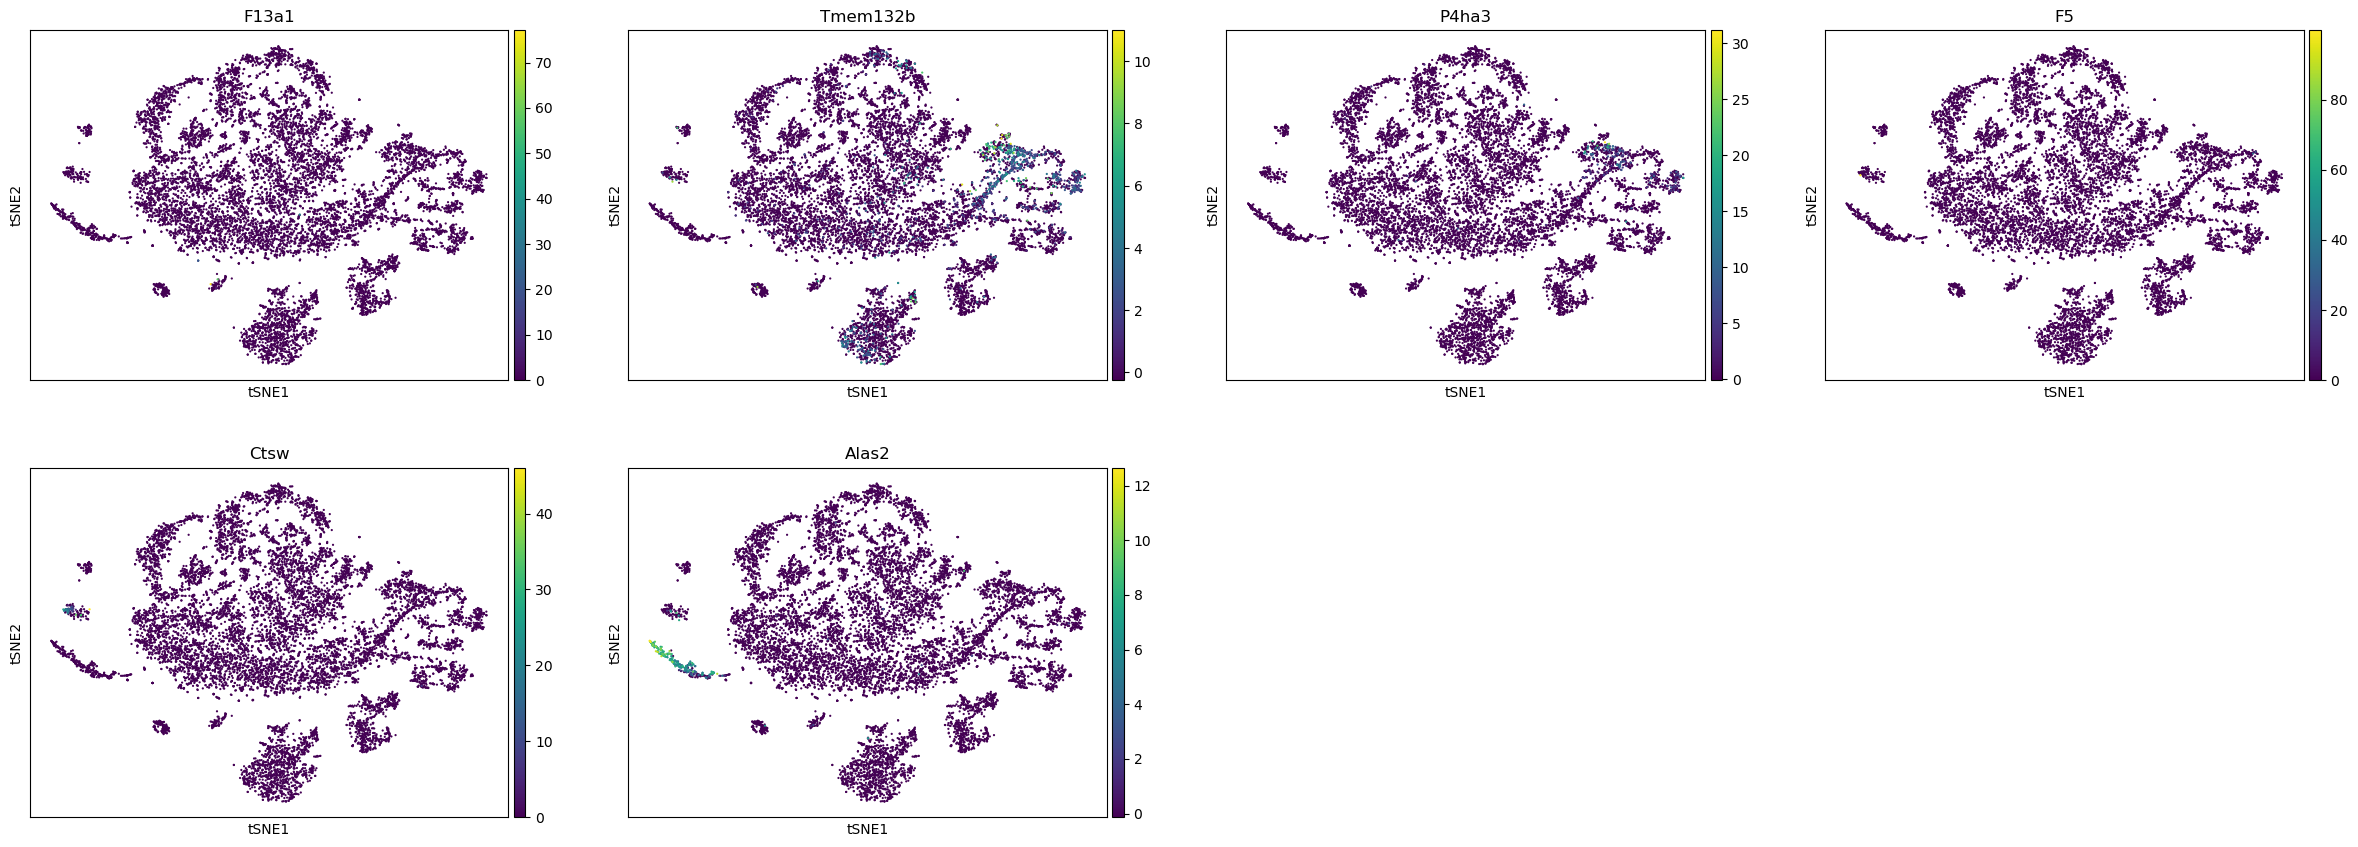
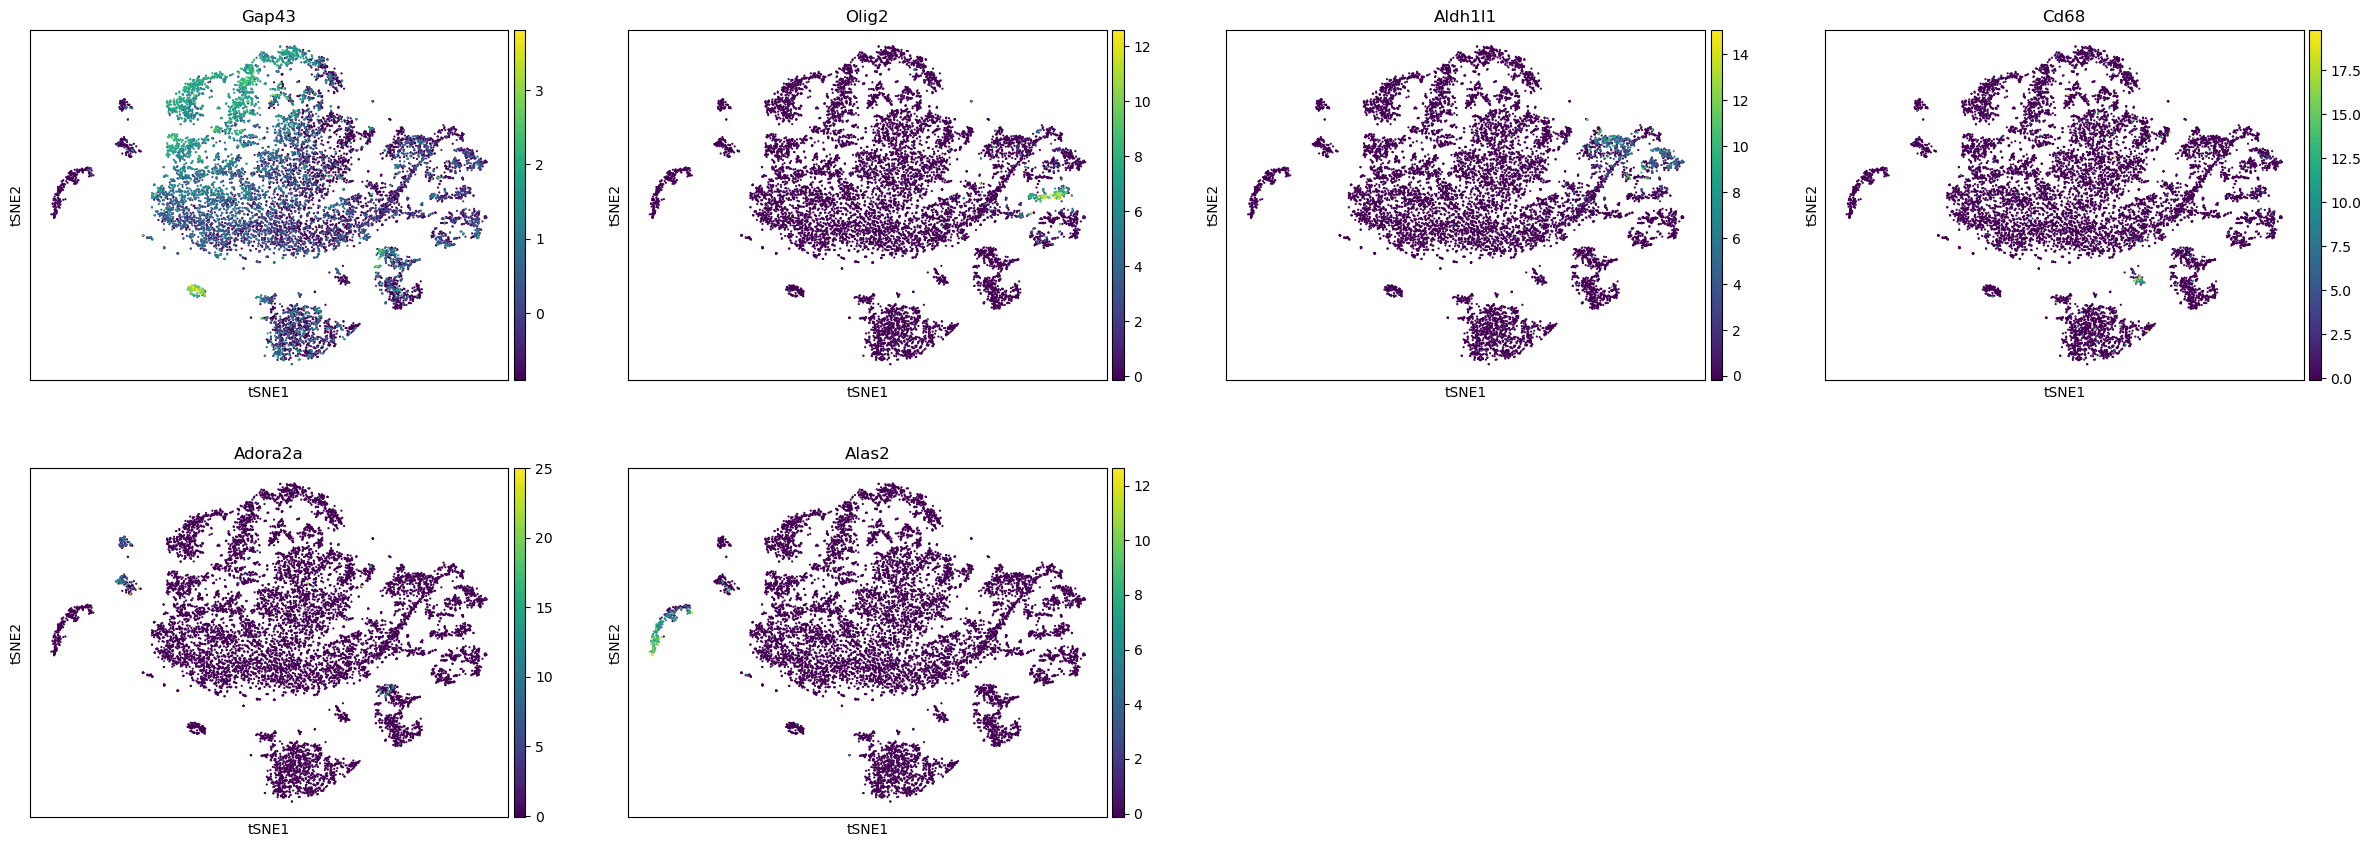
Complete Assignment and Figs

diff --git a/week11-homework/scRNA.py b/week11-homework/scRNA.py
@@ -1,37 +1,83 @@
 #usr/bin/env python
-
+import pandas as pd
 import scanpy as sc
+from matplotlib.pyplot import rc_context
 # Read 10x dataset
 adata = sc.read_10x_h5("neuron_10k_v3_filtered_feature_bc_matrix.h5")
 # Make variable names (in this case the genes) unique
 adata.var_names_make_unique()
 
 sc.tl.pca(adata)
-# sc.pl.pca(adata, title = 'PCA of prefiltered Data', save = 'prefilterPCA.png')
+sc.pl.pca(adata, title = 'PCA of prefiltered Data', save = 'prefilterPCA.png')
 
 sc.pp.recipe_zheng17(adata)
 sc.tl.pca(adata)
-# sc.pl.pca(adata, title = 'PCA of Filtered Data', save = 'filteredPCA.png')
+sc.pl.pca(adata, title = 'PCA of Filtered Data', save = 'filteredPCA.png')
 
 sc.pp.neighbors(adata)
-sc.tl.leiden(adata)
-for thing in adata.var.index:
-    print(thing)
+sc.tl.leiden(adata, key_added='clusters')
+# for thing in adata.var.index:
+#     print(thing)
 
-# sc.tl.tsne(adata)
-# sc.pl.tsne(adata, title = 'tSNE of Clusters', color = 'leiden', save = 'tSNE.png')
-#
-# sc.tl.umap(adata, maxiter = 1000)
-# sc.pl.umap(adata, title = 'UMAP of Clusters', color = 'leiden', save = 'UMAP.png')
-#
-# sc.tl.rank_genes_groups(adata, 'leiden', method='t-test')
-# sc.pl.rank_genes_groups(adata, save = 'ttest.png')
-#
-# sc.tl.rank_genes_groups(adata, 'leiden', method = 'logreg')
-# sc.pl.rank_genes_groups(adata, save = 'logreg.png')
+sc.tl.tsne(adata)
+sc.pl.tsne(adata, title = 'tSNE of Clusters', color = 'clusters', save = 'tSNE.png')
 
-marker_type = ['Microglia', 'Oligodendrocytes', 'Astrocytes', 'EC1', 'EC2', 'EC3']
-marker_genes = ['F13a1', 'Tmem132b', 'P4ha3', 'F5', 'Ctsw', 'Alas2']
+sc.tl.umap(adata, maxiter = 1000)
+sc.pl.umap(adata, title = 'UMAP of Clusters', color = 'clusters', save = 'UMAP.png')
+
+sc.tl.rank_genes_groups(adata, 'clusters', method='t-test')
+sc.pl.rank_genes_groups(adata, save = 'ttest.png')
+
+sc.tl.rank_genes_groups(adata, 'clusters', method = 'logreg')
+sc.pl.rank_genes_groups(adata, save = 'logreg.png')
+
+marker_type = ['Schwann Cells', 'Oligodendrocytes', 'Astrocytes', 'Microglia', 'GABAergic Neurons', 'EC type 3']
+marker_genes = ['Gap43', 'Olig2', 'Aldh1l1', 'Cd68', 'Adora2a', 'Alas2']
 
 sc.tl.tsne(adata)
 sc.pl.tsne(adata, color = marker_genes, save = 'markergenes.png')
+
+marker_genes_dict = {
+    'Schwann Cells': ['Gap43'],
+    'Oligodendrocytes': ['Olig2'],
+    'Astrocytes': ['Aldh1l1'],
+    'Microglia': ['Cd68'],
+    'GABAergic Neurons': ['Adora2a'],
+    'EC type 3': ['Alas2'],
+}
+
+cluster2annotation = {
+     '0': '0',
+     '1': '1',
+     '2': '2',
+     '3': '3',
+     '4': '4',
+     '5': 'Astrocytes',
+     '6': '6',
+     '7': '7',
+     '8': '8',
+     '9': '9',
+     '10': '10',
+     '11': '11',
+     '12': '12',
+     '13': '13',
+     '14': '14',
+     '15': '15',
+     '16': 'EC type 3',
+     '17': '17',
+     '18': '18',
+     '19': '19',
+     '20': '20',
+     '21': 'Oligodendrocytes',
+     '22': '22',
+     '23': 'GABAergic Neurons',
+     '24': 'Schwann Cells',
+     '25': '25',
+     '26': 'Microglia',
+     '27': '27',
+     '28': '28',
+}
+
+adata.obs['cell type'] = adata.obs['clusters'].map(cluster2annotation).astype('category')
+sc.tl.tsne(adata)
+sc.pl.tsne(adata, color='cell type', legend_loc='on data', save = 'tSNEFinal.png')
